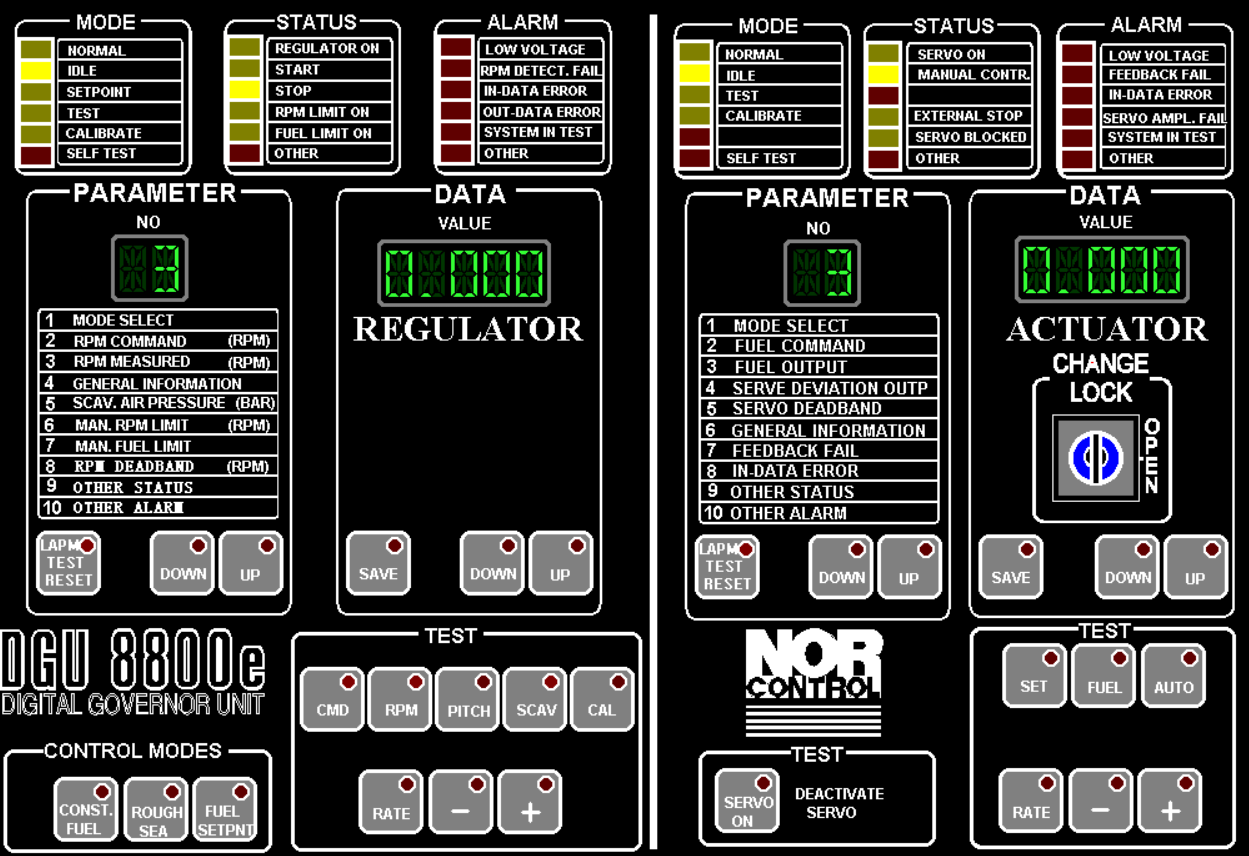
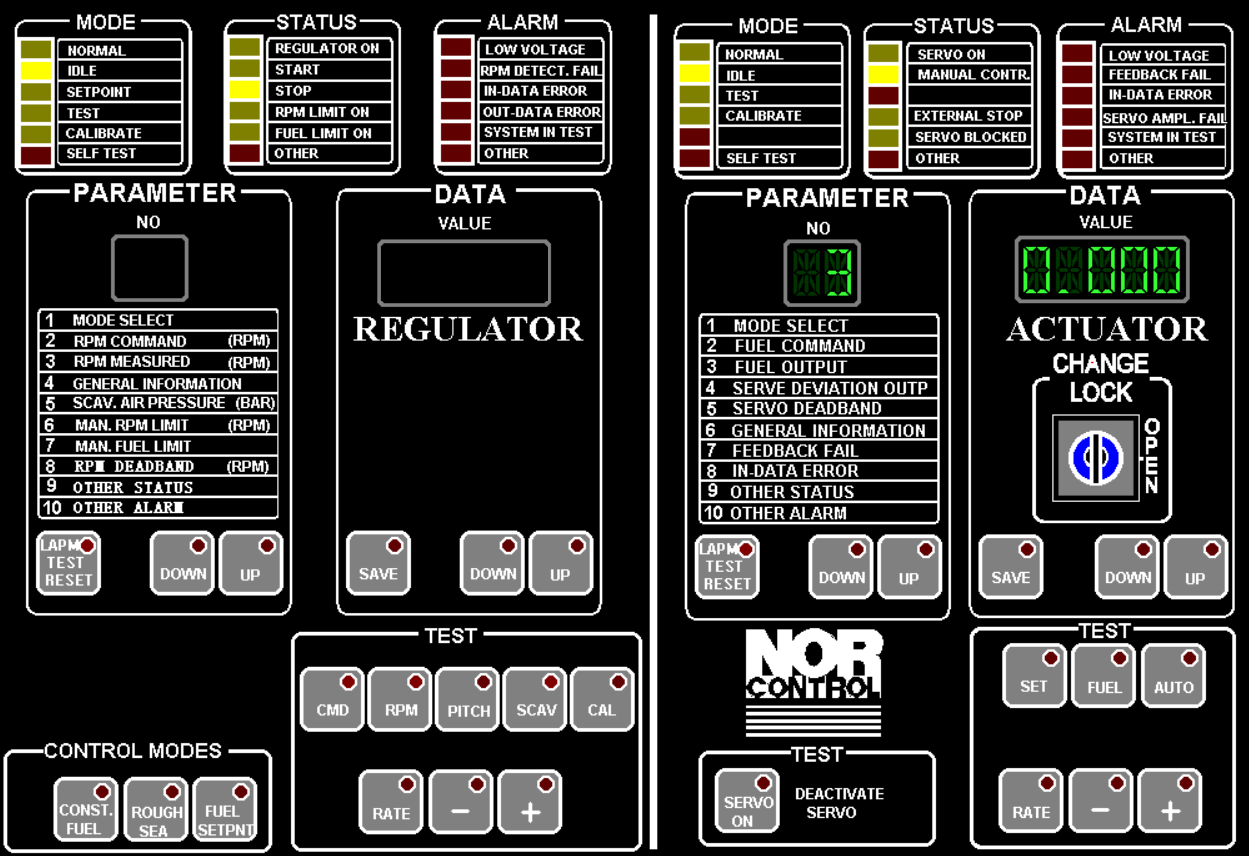
2.15提交完成调速器

Changed region(s): [[0.0, 0.729, 0.2186, 0.8505], [0.281, 0.2734, 0.4371, 0.3645], [0.0937, 0.2734, 0.1561, 0.3645]]

diff --git a/js/regulator.js b/js/regulator.js
@@ -1,0 +1,152 @@
+var up1x = 0;
+var down1x = 0;
+var up2x = 0;
+var down2x = 0;
+var reg_num = 1;
+var ydlim = 92;
+var rmpxlim = 80;
+var reg_value = document.getElementById('reg_value');
+
+document.getElementById('up1').onmousedown=function(){
+     $(this).css('opacity',1);
+    //  up1x+=1;
+     reg_num+=1;
+     if(reg_num>=10){
+         reg_num = 10;
+         document.getElementById('reg_num').style.left = '135px';
+     }
+     document.getElementById('reg_num').innerHTML = parseInt(reg_num) ;
+    //  if(reg_num ==2){
+    //     reg_value.innerHTML =ydx;
+    //     // console.log('value',ydx)
+    //  }
+    //  if(reg_num == 3){
+    //      reg_value.innerHTML = rmpx;
+    //  }
+     
+}
+   
+document.getElementById('up1').onmouseup=function(){
+    $(this).css('opacity',0);
+    // up1x+=1;
+}
+
+document.getElementById('down1').onmousedown=function(){
+    $(this).css('opacity',1);
+    // down1x+=1;
+    reg_num-=1;
+    document.getElementById('reg_num').style.left = '';
+
+    if(reg_num<=1){
+        reg_num = 1;
+    }
+    document.getElementById('reg_num').innerHTML = parseInt(reg_num) ;
+    // if(reg_num ==2){
+    //     reg_value.innerHTML =ydx;
+    //     // console.log('value',ydx)
+    //  }
+    //  if(reg_num == 3){
+    //      reg_value.innerHTML = rmpx;
+    //  }
+     
+}
+
+document.getElementById('down1').onmouseup=function(){
+    $(this).css('opacity',0);
+    // down1x+=1; 
+}
+
+
+
+
+document.getElementById('up2').onmousedown=function(){
+    $(this).css('opacity',1);
+    // up2x+=1;
+    if(reg_num == 6){
+        rmpxlim+=1;
+        reg_value.innerHTML = rmpxlim;
+    }
+    if(reg_num == 7){
+        ydlim+=1;
+        reg_value.innerHTML = ydlim;
+    }
+}
+  
+document.getElementById('up2').onmouseup=function(){
+    $(this).css('opacity',0);
+//    up2x+=1;
+}
+
+
+
+document.getElementById('down2').onmousedown=function(){
+   $(this).css('opacity',1);
+//    down2x+=1;
+    if(reg_num == 6){
+    rmpxlim-=1;
+    reg_value.innerHTML = rmpxlim;
+    }
+    if(reg_num == 7){
+        ydlim-=1;
+        reg_value.innerHTML = ydlim;
+        }
+}
+
+document.getElementById('down2').onmouseup=function(){
+   $(this).css('opacity',0);
+//    down2x+=1; 
+}
+
+
+
+
+
+
+//number
+document.getElementById('reg_num').innerHTML = parseInt(reg_num) ;
+
+
+
+//value update
+function reg_update(){
+    if(reg_num == 1){
+        reg_value.innerHTML = 0;
+    }
+    if(reg_num ==2){
+        reg_value.innerHTML =ydx;
+        // console.log('value',ydx)
+    }
+    if(reg_num == 3){
+         reg_value.innerHTML = rmpx;
+     }
+    if(reg_num == 4){
+        reg_value.innerHTML = 0;
+    }
+    if(reg_num == 5){
+        if (value16x % 2 == 1 && value3x % 2 == 1 && value122x % 2 == 1 && value116x % 2 == 1 && value118x % 2 == 1&& valueMainx%2==1){
+            reg_value.innerHTML = 27;
+        }
+        else{
+            reg_value.innerHTML = 0;
+        }
+        
+    }
+    if(reg_num == 6){
+
+        reg_value.innerHTML = rmpxlim;
+    }
+    if(reg_num == 7){
+        reg_value.innerHTML = ydlim;
+    }
+    if(reg_num == 8){
+        reg_value.innerHTML = 0;
+    }
+    if(reg_num == 9){
+        reg_value.innerHTML = 0;
+    }
+    if(reg_num == 10){
+        reg_value.innerHTML = 0;
+    }
+     setTimeout(reg_update,500);
+}
+reg_update();

diff --git a/mainEngine.html b/mainEngine.html
@@ -16,6 +16,8 @@
 	<link rel="stylesheet" href="css/schematicDiagram.css" type="text/css" />
 	<link rel="stylesheet" href="css/diagram.css" type="text/css" />
 	<link rel="stylesheet" href="css/governor.css" type="text/css" />
+	<link rel="stylesheet" href="css/regulator.css" type="text/css" />
+
 </head>
 
 
@@ -1203,6 +1205,13 @@
 			<!--            调速器                 -->
 			<div id="governor">
 				<img src="img/government.png" height="100%" width="100%">
+				<img src="reg/reg_up1.png" id="up1" >
+				<img src="reg/reg_down1.png" id="down1" >
+				<img src="reg/reg_up2.png" id="up2" >
+				<img src="reg/reg_down2.png" id="down2" >
+				<div id="reg_num"></div>
+				<div id="reg_value"></div>
+
 			</div>
 
 			<!--          工况                     -->
@@ -1231,6 +1240,8 @@
 	<script type="text/javascript" src="js/local.js"></script>
 	<script type="text/javascript" src="js/pid.js"></script>
 	<script type="text/javascript" src="js/main.js"></script>
+	<script type="text/javascript" src="js/regulator.js"></script>
+
 	<!--隐藏3D部分动态模型-->
 	<!-- <script type="text/javascript" src="js/threeD.js"></script> -->
 	<script type="text/javascript" src="js/diagram.js"></script>
@@ -1279,6 +1290,7 @@
 					document.getElementById('threeDgif').src="img/gif-3.gif"
 				}
 				document.getElementById('threeSpeed').innerHTML= parseInt( rmpx)
+
 				//集控室杠杆随着集控室车钟的变化而变化
 				bpointerLever1( ydx ,ydp, 'cCanvas1');
 				//集控室和驾控台表盘指针及示数随着集控室车钟的变化而变化

diff --git a/css/regulator.css b/css/regulator.css
@@ -1,0 +1,57 @@
+#up1{
+    position: absolute;
+    left: 220px;
+    top: 487px;
+    height: 73px;
+    width: 76px;
+    /* display: none; */
+    opacity: 0;
+    cursor: pointer;
+}
+#down1 {
+    position: absolute;
+    left: 147px;
+    top: 489px;
+    height: 70px;
+    width: 77px;
+    /* display: none; */
+    opacity: 0;
+    cursor: pointer;
+}
+
+
+#up2{
+    position: absolute;
+    left: 538px;
+    top: 487px;
+    height: 73px;
+    width: 76px;
+    /* display: none; */
+    opacity: 0;
+    cursor: pointer;
+}
+#down2 {
+    position: absolute;
+    left: 464px;
+    top: 489px;
+    height: 70px;
+    width: 77px;
+    /* display: none; */
+    opacity: 0;
+    cursor: pointer;
+}
+
+#reg_num{
+    color: #00FF00;
+	position: absolute;
+    left: 157px;
+    top: 213px;
+    font-size: 50px;
+}
+#reg_value{
+    color: #00FF00;
+	position: absolute;
+    left: 452px;
+    top: 217px;
+    font-size: 50px;
+}

diff --git a/js/local.js b/js/local.js
@@ -312,12 +312,12 @@ lbuttonStart.onmousedown = function () {
 lbuttonStart.onmouseup = function () {
 	lbuttonStart.style.backgroundColor = "grey";
 	if(rmp < 15){
-		alert("空气起动失败！");
+		// alert("空气起动失败！");
 		airstart = 1;
 		yd=0;
 	}
 	else{
-		alert("空气起动成功！");
+		// alert("空气起动成功！");
 		airstart = 2;
 	}
 	// airstart = 2;
@@ -338,12 +338,12 @@ $('#pstart').on('mousedown', function () {
 $('#pstart').on('mouseup', function () {
 	startMove(this, 'opacity', 0);
 	if(rmp < 15){
-		alert("空气起动失败！");
+		// alert("空气起动失败！");
 		airstart = 1;
 		yd=0;
 	}
 	else{
-		alert("空气起动成功！");
+		// alert("空气起动成功！");
 		airstart = 2;
 	}
 	console.log('airstart',airstart);console.log('ydx',ydx);

diff --git a/js/main.js b/js/main.js
@@ -454,7 +454,7 @@ document.getElementById('impactwheel').onclick = function () {
 // }
 
 document.getElementById('conBefore').onclick = function () { //原始状况
-	wx = 0;
+	wx = 0;ydx=0;
 	console.log('wx', wx);
 	impactwheelx = 0;
 	console.log('imx', impactwheelx);

diff --git a/js/calculate.js b/js/calculate.js
@@ -189,6 +189,10 @@ function calculate() {
 	if(rmp<=0){
 		rmp=0;
 	}
+	//转速限制
+	if(rmpx>=rmpxlim){
+		rmpx=rmpxlim;
+	}
 	//yd为实际燃油齿条刻度 ydx为车钟位置 ydp为指针所展现的燃油齿条刻度值
 	//燃油齿条刻度范围0-100
 	ydp=yd;

diff --git a/js/schematicDiagram.js b/js/schematicDiagram.js
@@ -532,6 +532,7 @@ function checkStart() {
 		pointerRotate(31, 'cStartAirPressPointer');
 		document.getElementById('cStartAirPress').innerHTML = '27 bar';
 
+
 		if(schematicX==0){
 			schematicX=1
 		}

diff --git a/js/pid.js b/js/pid.js
@@ -35,6 +35,12 @@ function pid() {
 		increment=-20
 	}	
 	l_l_error = l_error;
-	l_error = error;
+	l_error = error;	
+
 	yd = ydx+increment;
+	//油门限制
+	if(yd>ydlim){
+		yd=ydlim;
+	}
+
 }
